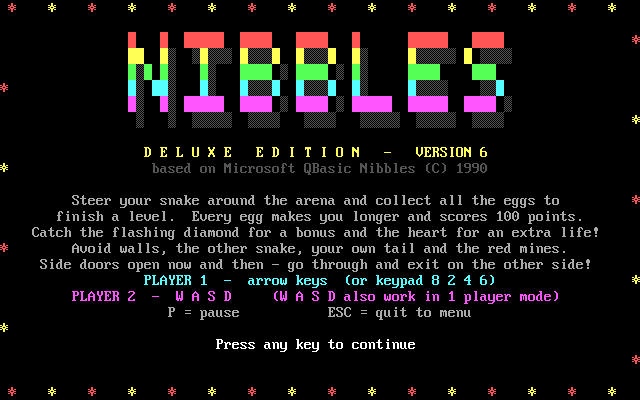
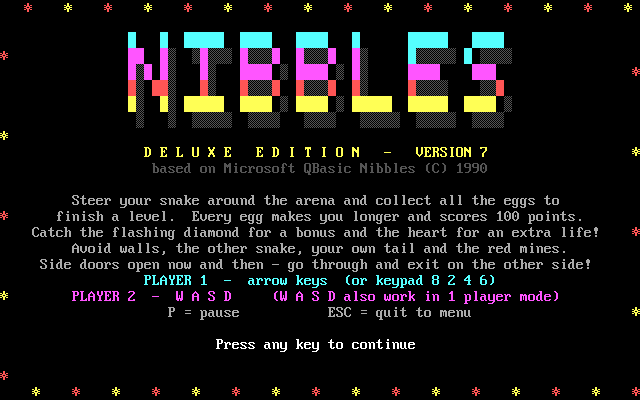
v7

diff --git a/README.md b/README.md
@@ -1,6 +1,6 @@
 # Nibbles Deluxe
 
-[![Language](https://img.shields.io/badge/Language-QuickBasic-blue.svg)](https://en.wikipedia.org/wiki/QBasic)
+[![Language](https://img.shields.io/badge/Language-QuickBasic-blue.svg)](https://en.wikipedia.org/wiki/QuickBASIC)
 [![Platform](https://img.shields.io/badge/Platform-DOS%20%7C%20Windows-lightgrey.svg)](https://www.dosbox.com/)
 [![GitHub stars](https://img.shields.io/github/stars/mesutakcan/Nibbles-Deluxe?style=social)](https://github.com/mesutakcan/Nibbles-Deluxe/stargazers)
 [![GitHub forks](https://img.shields.io/github/forks/mesutakcan/Nibbles-Deluxe?style=social)](https://github.com/mesutakcan/Nibbles-Deluxe/forks)
@@ -43,7 +43,7 @@ always called `NIBBLESD.BAS`.
 - Settings and names are saved to `NIBBLES.CFG`; the high score and the name of its owner
   are saved to `NIBBLES.HI`
 - The game speed is calibrated at start-up, so it plays the same on any computer
-- 12 levels (the 10 original levels plus 2 new ones)
+- 20 levels (the 10 original levels plus 10 new ones)
 - Runs in DOS / DOSBox and natively on Windows (32 bit and 64 bit)
 
 ![Nibbles Deluxe SS 2](docs/screenshot_2.png)
@@ -156,9 +156,24 @@ in turn, the snake is wiped out from head to tail, or both one after the other).
 
 ## Levels
 
-12 levels with different walls. Levels 1 to 10 are the original Nibbles levels; level 11 is a
-box with four gates and level 12 is a big plus sign. After level 12 the levels start again
-(and, with "Faster each level" switched on, the game keeps getting faster).
+20 levels with different walls. Levels 1 to 10 are the original Nibbles levels. The new levels
+are:
+
+| Level | Walls |
+| --- | --- |
+| 11 | A box with four gates |
+| 12 | A big plus sign |
+| 13 | Bunkers: four corner pockets |
+| 14 | Pinwheel |
+| 15 | Diamond |
+| 16 | Pillars |
+| 17 | Serpentine |
+| 18 | Crossed diagonals |
+| 19 | Fortress |
+| 20 | Nested boxes |
+
+After level 20 the levels start again (and, with "Faster each level" switched on, the game
+keeps getting faster).
 
 ## Settings
 
@@ -167,7 +182,7 @@ box with four gates and level 12 is a big plus sign. After level 12 the levels s
 | Players | 1 or 2 |
 | Speed | 1 to 10 |
 | Faster each level | ON / OFF |
-| Start level | 1 to 12 |
+| Start level | 1 to 20 |
 | Colors | CLASSIC, NIGHT, MONO |
 | Sound | ON / OFF |
 | Mines | OFF, RANDOM, FIXED, BOTH |
@@ -259,6 +274,13 @@ Instead of the command line you can also open `NIBBLESD.BAS` in the QB64-PE edit
 ## History
 
 Newest version first.
+
+### Version 7 - 2026-10-13
+
+- 8 new levels, for 20 levels in total: bunkers (13), pinwheel (14), diamond (15), pillars
+  (16), serpentine (17), crossed diagonals (18), fortress (19) and nested boxes (20)
+- The **Start level** setting now goes from 1 to 20
+- The levels start again after level 20
 
 ### Version 6 - 2026-10-12
 
